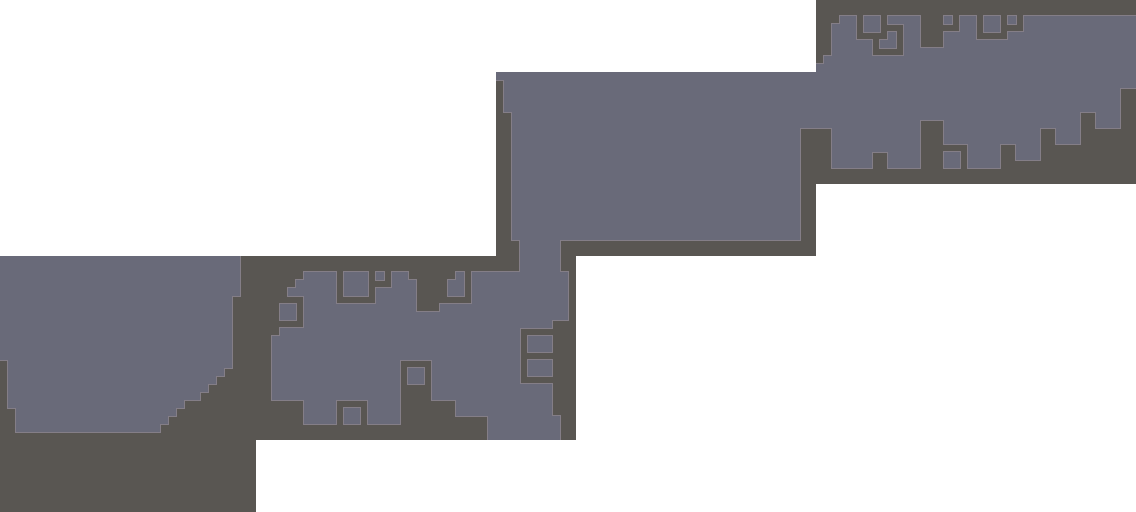
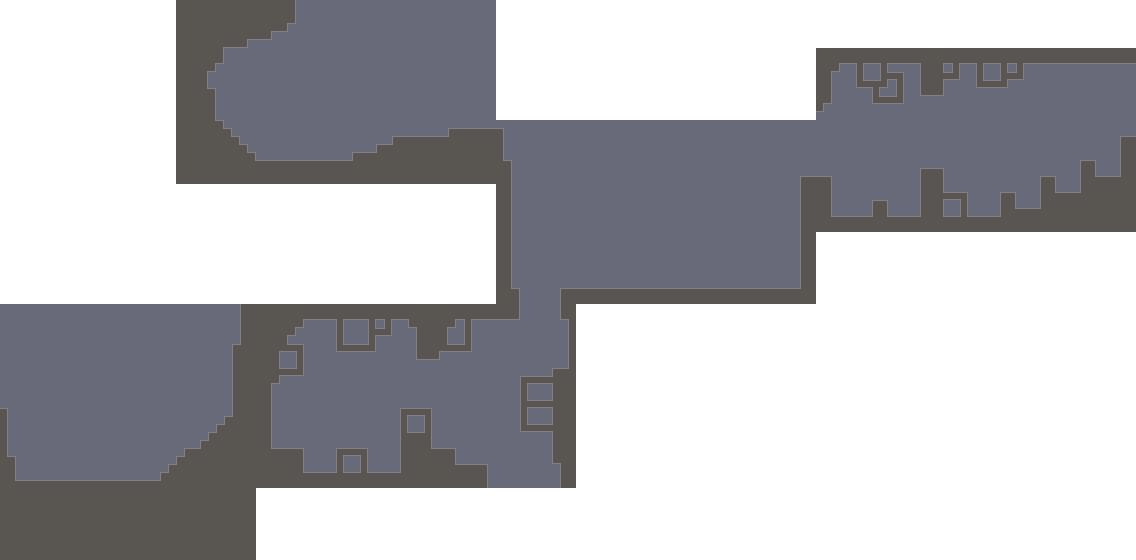
Add error processing. Add depth option.

diff --git a/src/app.rs b/src/app.rs
@@ -1,4 +1,5 @@
-use std::{fs, io::Error, path::PathBuf};
+use std::error;
+use std::{fs, path::PathBuf};
 
 use egui::Ui;
 
@@ -9,29 +10,58 @@ use crate::schemas::LDtk;
 pub struct LDtkApp {
   picked_path: Option<PathBuf>,
   saved_path: Option<PathBuf>,
-  error: Option<Error>,
+  error: Option<Box<dyn error::Error>>,
   ldtk_world: Option<LDtk>,
+  // Values
+  world_depth_text: String,
+  // Settings
+  pub world_depth: i16,
 }
 
 impl LDtkApp {
   pub fn new(_cc: &eframe::CreationContext<'_>) -> Self {
-    Self::default()
+    Self { 
+      world_depth: 0,
+      ..Default::default()
+    }
   }
 }
 
 impl eframe::App for LDtkApp {
   fn update(&mut self, ctx: &egui::Context, _frame: &mut eframe::Frame) {
+    egui::TopBottomPanel::top("top_panel").show(ctx, |ui| draw_top_panel(self, ui));
     egui::CentralPanel::default().show(ctx, |ui| draw_ui(self, ui));
   }
 }
 
+fn draw_top_panel(_app: &mut LDtkApp, ui: &mut Ui) {
+  ui.label("LDTK World 2 Image");
+}
+
 fn draw_ui(app: &mut LDtkApp, ui: &mut Ui) {
+  ui.horizontal(|ui| {
+    ui.label("World depth: ");
+    match draw_depth_choice(app, ui) {
+      Err(error) => app.error = Some(error),
+      _ => {}
+    }
+  });
   ui.horizontal(|ui| draw_file_choice(app, ui));
-  draw_files(app, ui);
+  match draw_files(app, ui) {
+    Err(error) => app.error = Some(error),
+    _ => {}
+  }
 
   if let Some(error) = &app.error {
     ui.label(format!("An error has occurred: {}", error.to_string()));
   }
+}
+
+fn draw_depth_choice(app: &mut LDtkApp, ui: &mut Ui) -> Result<(), Box<dyn error::Error>> {
+  if ui.text_edit_singleline(&mut app.world_depth_text).changed() {
+    app.world_depth = app.world_depth_text.parse()?;
+  }
+  Ok(())
 }
 
 fn draw_file_choice(app: &mut LDtkApp, ui: &mut Ui) {
@@ -47,7 +77,7 @@ fn draw_file_choice(app: &mut LDtkApp, ui: &mut Ui) {
   }
 }
 
-fn draw_files(app: &mut LDtkApp, ui: &mut Ui) {
+fn draw_files(app: &mut LDtkApp, ui: &mut Ui) -> Result<(), Box<dyn error::Error>> {
   if let Some(picked_path) = &app.picked_path {
     ui.horizontal(|ui| {
       ui.label("Picked file:");
@@ -69,31 +99,33 @@ fn draw_files(app: &mut LDtkApp, ui: &mut Ui) {
     let picked_path: &PathBuf;
     match &app.picked_path {
       Some(path) => picked_path = path,
-      None => return,
+      None => return Ok(()),
     }
-    let ldtk_world_string: String = fs::read_to_string(picked_path).unwrap();
-    app.ldtk_world = serde_json::from_str(&ldtk_world_string).unwrap();
+    let ldtk_world_string: String = fs::read_to_string(picked_path)?;
+    app.ldtk_world = serde_json::from_str(&ldtk_world_string)?;
 
     let ldtk_world: &LDtk;
     match &app.ldtk_world {
       Some(world) => ldtk_world = world,
-      None => return,
+      None => return Ok(()),
     }
 
-    let img_dir = picked_path.parent().unwrap().join(
+    let img_dir = picked_path.parent().ok_or("Picked file is null")?.join(
       picked_path
         .file_stem()
-        .unwrap()
+        .ok_or("Unable to get file stem")?
         .to_str()
-        .unwrap()
+        .ok_or("Unable to convert file stem")?
         .to_owned()
         + "/png",
     );
-    let image = generator::world_image(ldtk_world, &img_dir);
+    let image = generator::world_image(app, ldtk_world, &img_dir);
     let _result = image.save(saved_path);
 
     app.saved_path = None;
     app.picked_path = None;
     app.ldtk_world = None;
   }
+
+  Ok(())
 }

diff --git a/src/generator.rs b/src/generator.rs
@@ -2,7 +2,7 @@ use std::path::PathBuf;
 
 use image::{DynamicImage, GenericImageView, ImageReader, RgbaImage};
 
-use crate::schemas::{LDtk, Level};
+use crate::{app::LDtkApp, schemas::{LDtk, Level}};
 
 #[derive(Debug)]
 struct WorldDims {
@@ -12,33 +12,21 @@ struct WorldDims {
   height: u32,
 }
 
-// TODO: Generate image from world levels
-pub fn world_image(world: &LDtk, img_path: &PathBuf) -> RgbaImage {
-  let world_size = total_world_size(world);
+pub fn world_image(app: &LDtkApp, world: &LDtk, img_path: &PathBuf) -> RgbaImage {
+  let world_size = total_world_size(app, world);
   let mut img = RgbaImage::new(
     world_size.width.try_into().unwrap(),
     world_size.height.try_into().unwrap(),
   );
-
-  let y_less_zero = world_size.y < 0;
-  let x_less_zero = world_size.x < 0;
 
   for level in &world.levels {
     let lvl_img = level_image(level, img_path);
     for x in 0..lvl_img.width() {
       for y in 0..lvl_img.height() {
         let pixel = lvl_img.get_pixel(x, y);
-        let ny = if y_less_zero {
-          (-world_size.y + level.world_y) as u32 + y
-        } else {
-          (world_size.y + level.world_y) as u32 + y
-        };
-        let nx = if x_less_zero {
-          (-world_size.x + level.world_x) as u32 + x
-        } else {
-          (world_size.x + level.world_x) as u32 + x
-        };
-          img.put_pixel(nx, ny, pixel.to_owned());
+        let ny = (world_size.y.abs() + level.world_y) as u32 + y;
+        let nx = (world_size.x.abs() + level.world_x) as u32 + x;
+        img.put_pixel(nx, ny, pixel.to_owned());
       }
     }
   }
@@ -51,7 +39,7 @@ fn level_image(level: &Level, img_path: &PathBuf) -> DynamicImage {
   ImageReader::open(img_path.join(lvl_name)).unwrap().decode().unwrap()
 }
 
-fn total_world_size(world: &LDtk) -> WorldDims {
+fn total_world_size(app: &LDtkApp, world: &LDtk) -> WorldDims {
   let mut dims = WorldDims {
     x: 0,
     y: 0,
@@ -62,18 +50,21 @@ fn total_world_size(world: &LDtk) -> WorldDims {
   dims.x = world
     .levels
     .iter()
+    .filter(|level| level.world_depth == app.world_depth)
     .min_by(|levela, levelb| levela.world_x.cmp(&levelb.world_x))
     .unwrap()
     .world_x;
   dims.y = world
     .levels
     .iter()
+    .filter(|level| level.world_depth == app.world_depth)
     .min_by(|levela, levelb| levela.world_y.cmp(&levelb.world_y))
     .unwrap()
     .world_y;
   let max_level_x = world
     .levels
     .iter()
+    .filter(|level| level.world_depth == app.world_depth)
     .max_by(|levela, levelb| {
       (levela.world_x + levela.px_wid).cmp(&(levelb.world_x + levelb.px_wid))
     })
@@ -81,6 +72,7 @@ fn total_world_size(world: &LDtk) -> WorldDims {
   let max_level_y = world
     .levels
     .iter()
+    .filter(|level| level.world_depth == app.world_depth)
     .max_by(|levela, levelb| {
       (levela.world_y + levela.px_hei).cmp(&(levelb.world_y + levelb.px_hei))
     })
